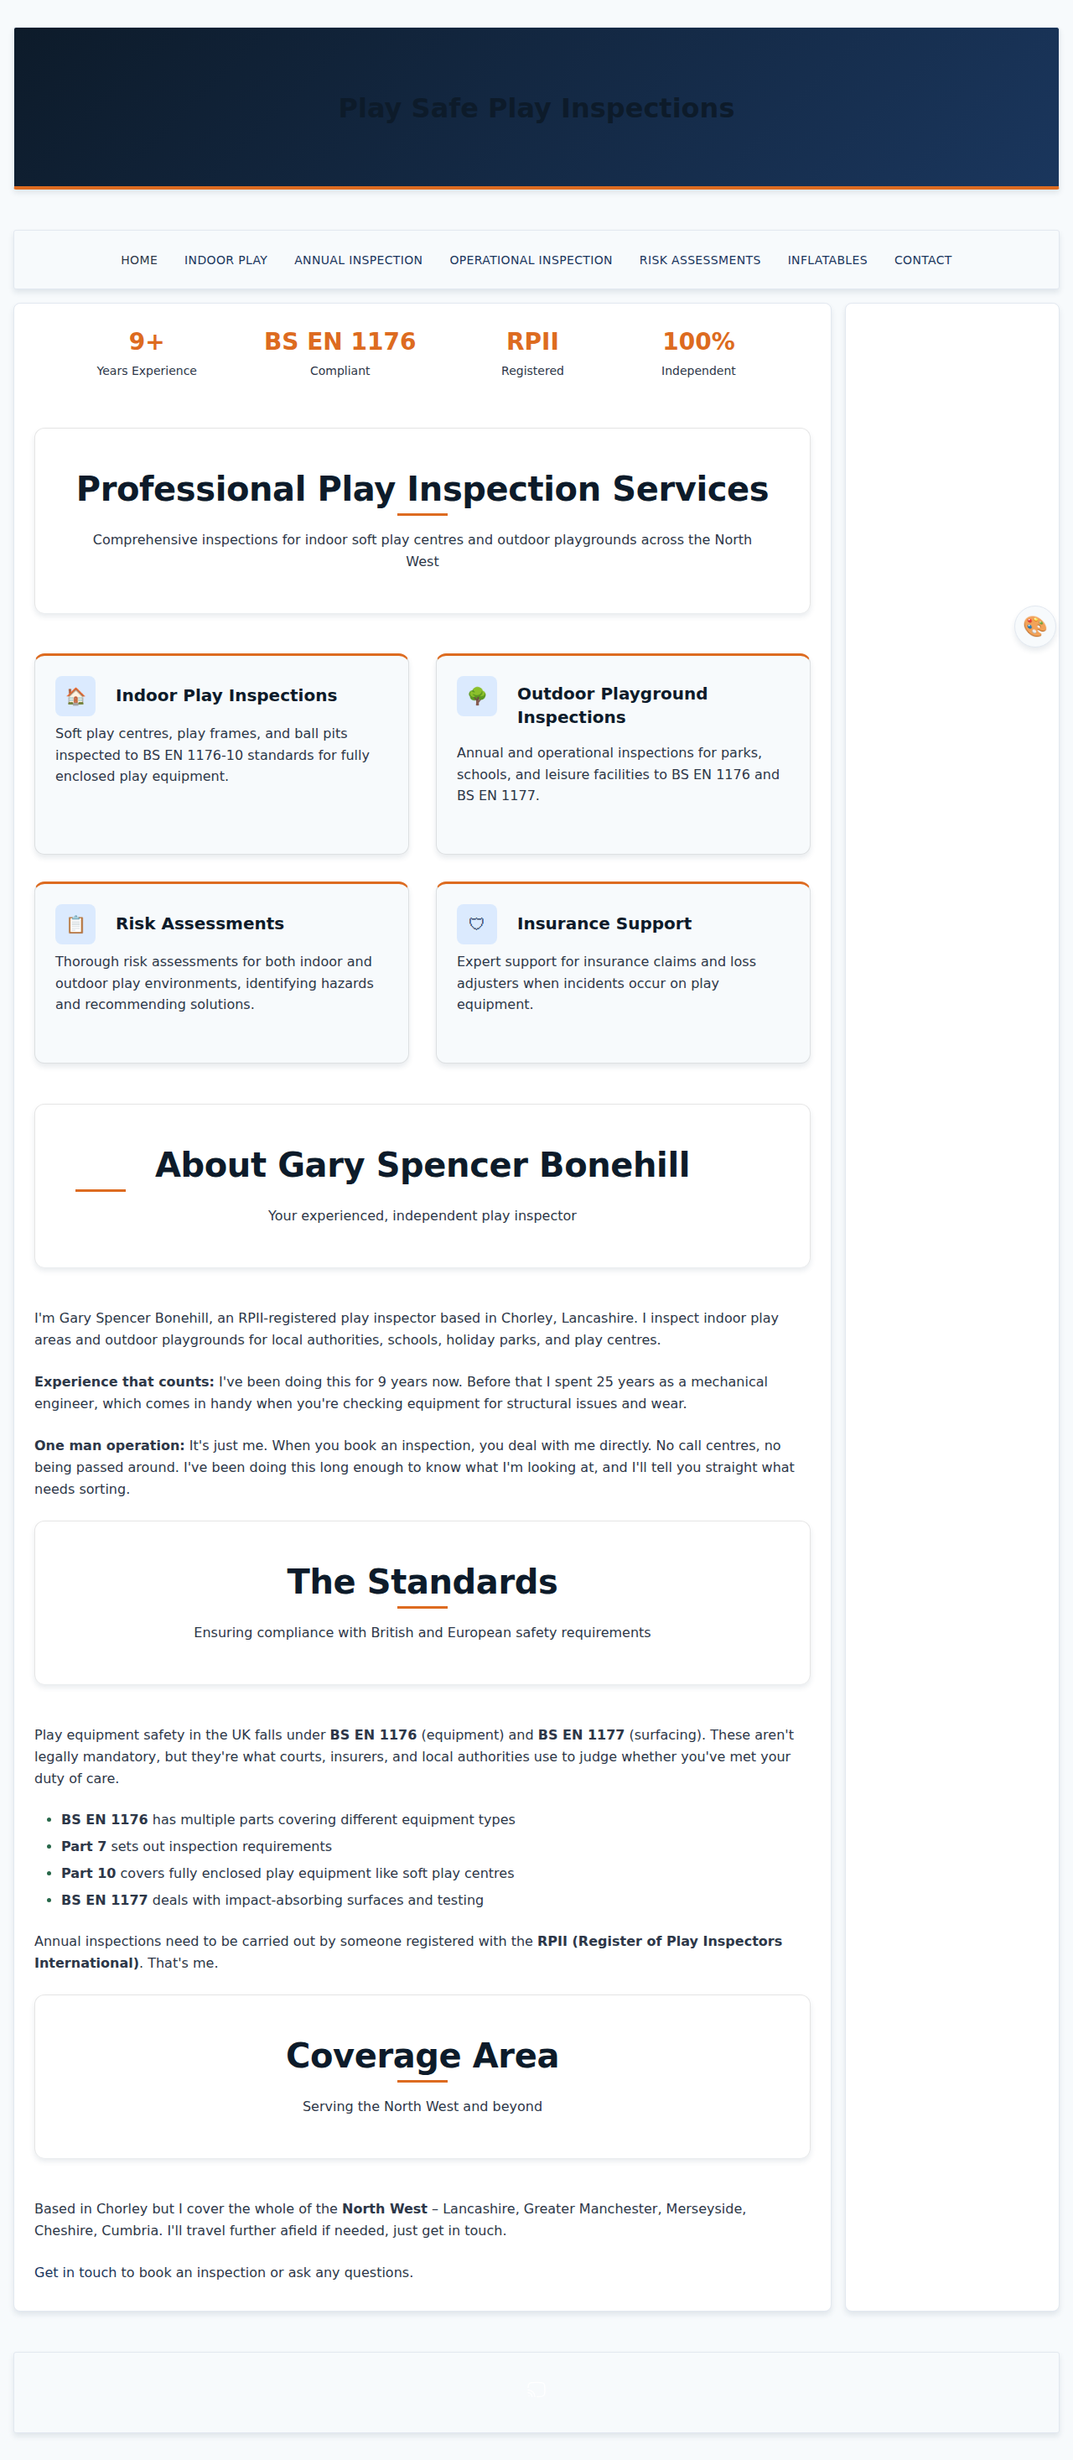
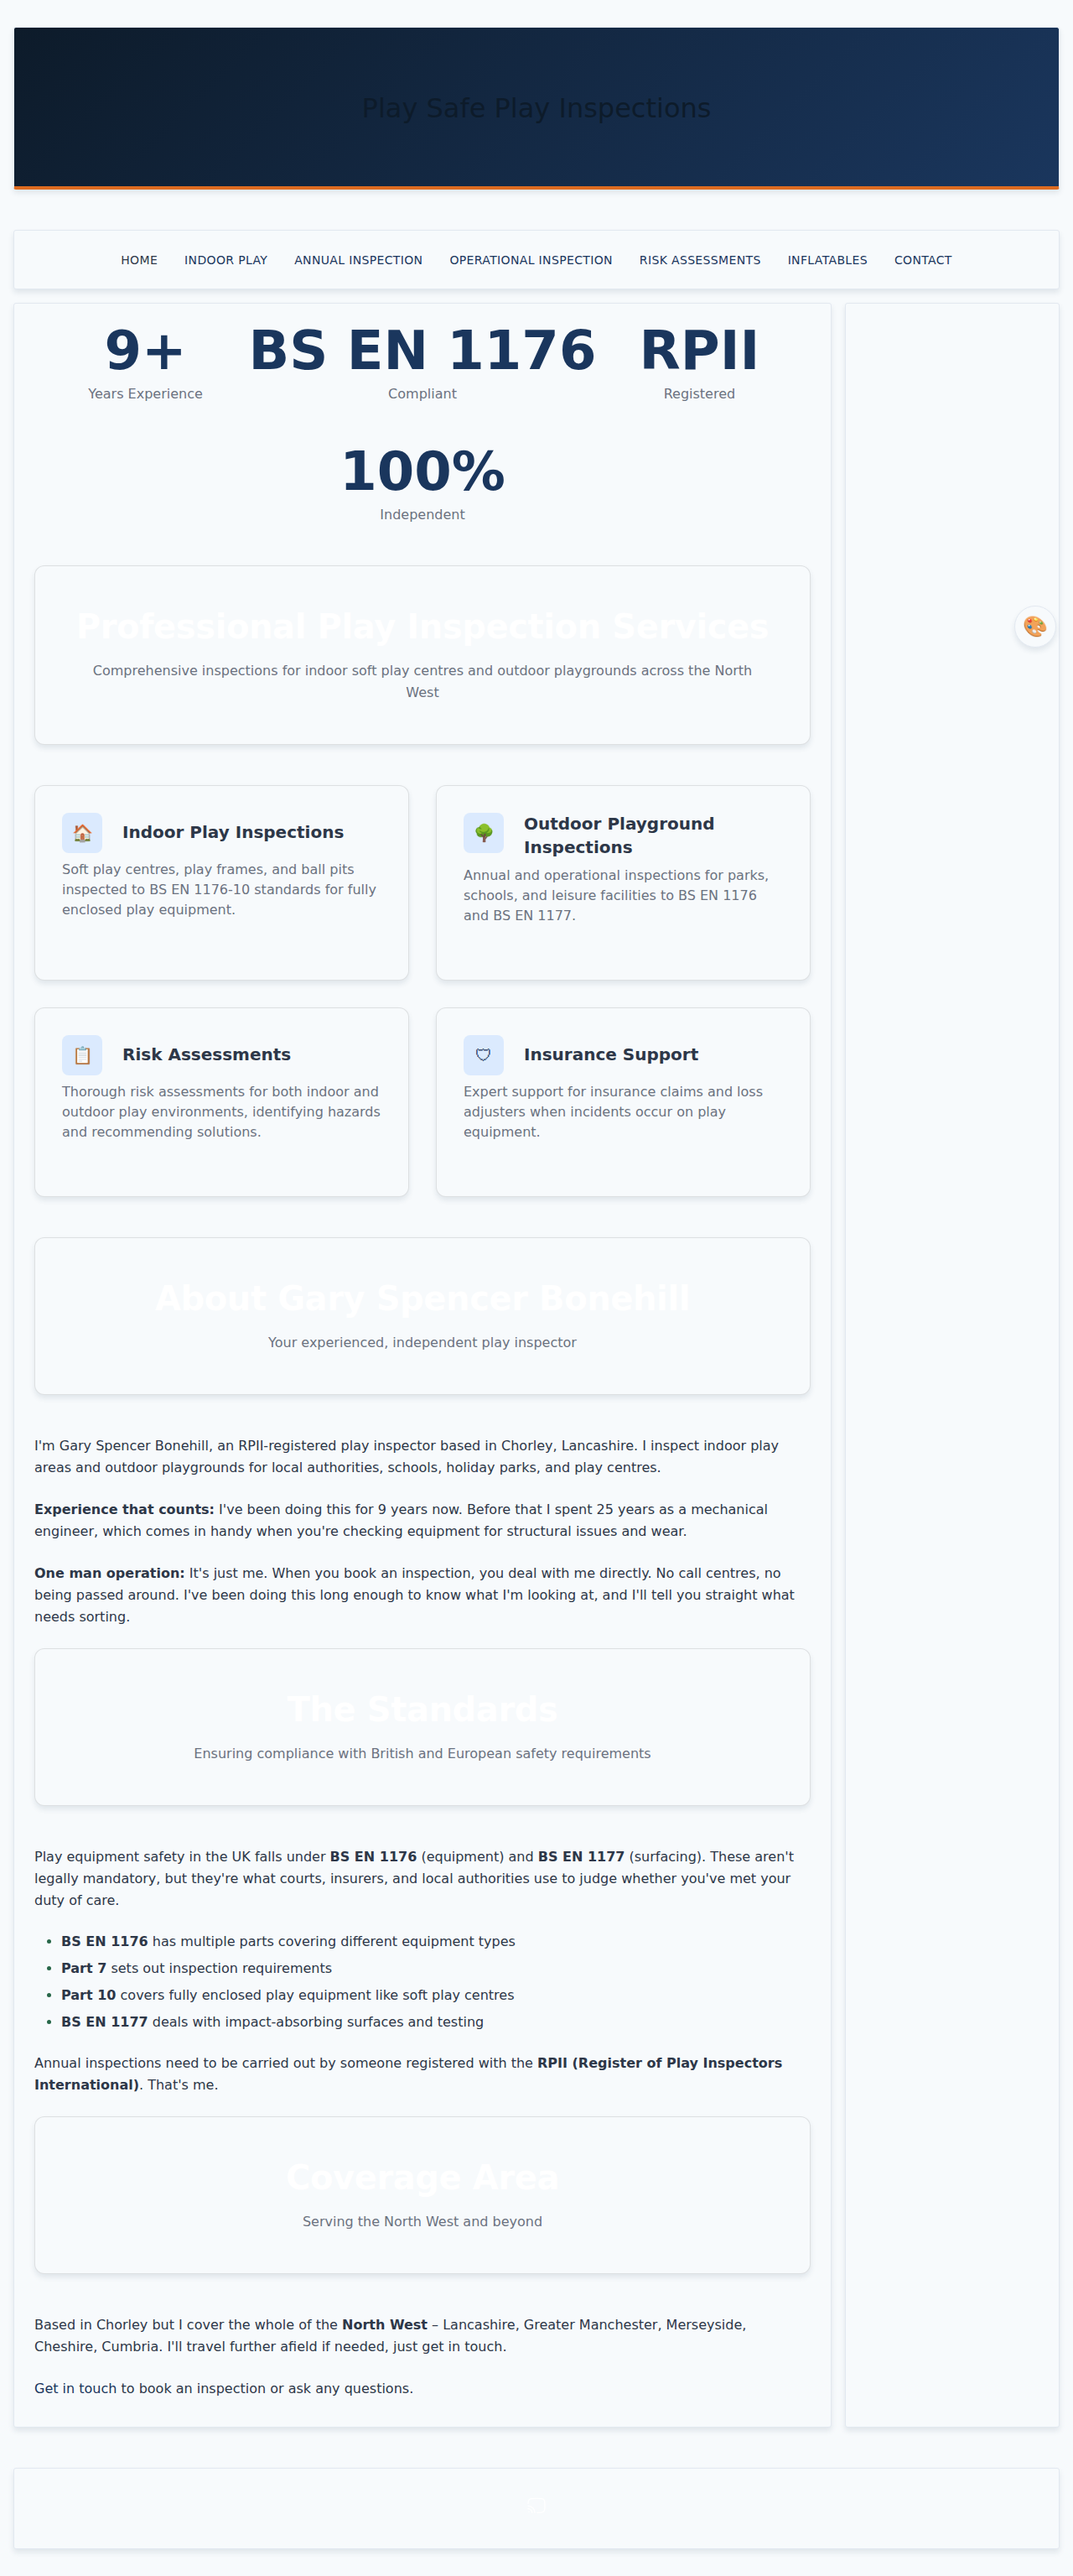
Minimize theme.scss after design system improvements
Remove design system overrides now built into chobble-template:
- Section header contrast fixes (now solid by default)
- Design system section spacing
- Stats component spacing
- Features grid spacing
- Alternating section backgrounds

theme.scss reduced from 396 to 162 lines - now purely branding/colors.

diff --git a/css/theme.scss b/css/theme.scss
@@ -1,5 +1,4 @@
 @charset "utf-8";
-@use "sass:color";
 
 // Corporate Safety Theme
 // Professional play inspection with safety-focused colors
@@ -36,31 +35,26 @@
 
   // UI Elements
   --border: 1px solid #e2e8f0;
-  --border-strong: 2px solid #1a365d;
-  --border-accent: 3px solid #dd6b20;
   --box-shadow: 0 4px 6px rgba(26, 54, 93, 0.1);
   --box-shadow-lg: 0 10px 25px rgba(26, 54, 93, 0.15);
 
-  // Typography - Clean, professional
+  // Typography
   --font-family-body: system-ui, -apple-system, "Segoe UI", Roboto, "Helvetica Neue", Arial, sans-serif;
   --font-family-heading: system-ui, -apple-system, "Segoe UI", Roboto, "Helvetica Neue", Arial, sans-serif;
 
   // Link styles
   --link-decoration: none;
   --link-decoration-hover: underline;
-  --link-decoration-style: solid;
 }
 
-// Base body
+// Base
 body {
   background: var(--color-bg);
   color: var(--color-text);
 }
 
-// Site header styling - dark navy with orange accent
-// Use body > header to only target the main site header, not section headers
-body > header,
-.site-header {
+// Site header - dark navy with orange accent
+header {
   --color-text: #ffffff;
   --color-link: #ffffff;
   --color-link-hover: var(--color-accent-light);
@@ -69,64 +63,28 @@ body > header,
 }
 
 // Navigation
-nav {
-  a {
-    font-weight: 500;
-    letter-spacing: 0.025em;
-    text-transform: uppercase;
-    font-size: 0.875rem;
-  }
+nav a {
+  font-weight: 500;
+  letter-spacing: 0.025em;
+  text-transform: uppercase;
+  font-size: 0.875rem;
 }
 
-// Hero section enhancements
-.hero,
-[class*="hero"] {
-  background: linear-gradient(135deg, var(--color-primary-dark) 0%, var(--color-primary) 100%);
-  color: #ffffff;
-  position: relative;
-
-  &::after {
-    content: "";
-    position: absolute;
-    bottom: 0;
-    left: 0;
-    right: 0;
-    height: 4px;
-    background: var(--color-accent);
-  }
-
-  h1 {
-    color: #ffffff;
-    font-weight: 700;
-  }
-
-  .subtitle,
-  p {
-    color: rgba(255, 255, 255, 0.9);
-  }
-}
-
-// Primary buttons - Safety orange
+// Buttons - Safety orange
 .btn,
 button[type="submit"],
 input[type="submit"] {
   background: var(--color-accent);
   color: #ffffff;
-  border: none;
   font-weight: 600;
   text-transform: uppercase;
   letter-spacing: 0.05em;
-  padding: 0.75rem 1.5rem;
-  transition: all 0.2s ease;
 
   &:hover {
     background: var(--color-accent-dark);
-    transform: translateY(-2px);
-    box-shadow: var(--box-shadow);
   }
 }
 
-// Secondary buttons - Navy outline
 .btn-secondary,
 .btn-outline {
   background: transparent;
@@ -139,78 +97,43 @@ input[type="submit"] {
   }
 }
 
-// Cards and content blocks
-.card,
-article,
+// Cards - add accent border
 .feature {
-  background: #ffffff;
-  border: var(--border);
-  border-radius: 0.5rem;
-  box-shadow: var(--box-shadow);
-  transition: all 0.2s ease;
-
-  &:hover {
-    box-shadow: var(--box-shadow-lg);
-    border-color: var(--color-primary-light);
-  }
+  border-top: 3px solid var(--color-accent);
 }
 
-// Headings - Navy blue
+// Headings - Navy with orange underline
 h1, h2, h3, h4, h5, h6 {
   color: var(--color-primary-dark);
-  font-weight: 700;
 }
 
-h2 {
-  position: relative;
-  padding-bottom: 0.5rem;
-
-  &::after {
-    content: "";
-    position: absolute;
-    bottom: 0;
-    left: 0;
-    width: 60px;
-    height: 3px;
-    background: var(--color-accent);
-  }
+h2::after {
+  background: var(--color-accent);
 }
 
-// Centered headings
-.text-center h2::after {
-  left: 50%;
-  transform: translateX(-50%);
-}
-
-// Stats highlighting - use orange for emphasis
+// Stats - orange values
 .stat strong,
 .stats strong {
-  color: var(--color-accent) !important;
+  color: var(--color-accent);
 }
 
-// Feature icons
-.feature .icon,
+// Icons - orange
 .icon {
   color: var(--color-accent);
-  font-size: 2.5rem;
 }
 
-// Lists with checkmarks/safety indicators
-ul:not([class]) li::marker,
-.checklist li::marker {
+// List markers - green (safety approved)
+ul:not([class]) li::marker {
   color: var(--color-secondary);
 }
 
-// Blockquotes - Safety styling
+// Blockquotes
 blockquote {
-  border-left: 4px solid var(--color-accent);
+  border-left-color: var(--color-accent);
   background: var(--color-bg-alt);
-  padding: 1rem 1.5rem;
-  font-style: italic;
-  color: var(--color-text-light);
 }
 
-// Footer - Dark professional
+// Footer - dark navy
 footer {
   background: var(--color-primary-dark);
   color: rgba(255, 255, 255, 0.8);
@@ -218,178 +141,21 @@ footer {
 
   a {
     color: rgba(255, 255, 255, 0.9);
-
-    &:hover {
-      color: var(--color-accent-light);
-    }
+    &:hover { color: var(--color-accent-light); }
   }
 
-  h3, h4 {
-    color: #ffffff;
-  }
+  h3, h4 { color: #ffffff; }
 }
 
-// Safety badge/certification styling
-.badge,
-.certification,
-.standard {
-  display: inline-flex;
-  align-items: center;
-  gap: 0.5rem;
-  background: var(--color-bg-alt);
-  border: 1px solid var(--color-secondary);
-  border-radius: 0.25rem;
-  padding: 0.25rem 0.75rem;
-  font-size: 0.875rem;
-  font-weight: 500;
-  color: var(--color-secondary);
-}
-
-// Horizontal rules - Orange accent
+// Horizontal rules
 hr {
-  border: none;
-  height: 2px;
   background: linear-gradient(90deg, var(--color-accent) 0%, transparent 100%);
-  margin: 2rem 0;
 }
 
-// Form inputs
-input[type="text"],
-input[type="email"],
-input[type="tel"],
-textarea,
-select {
-  border: var(--border);
-  border-radius: 0.375rem;
-  padding: 0.75rem 1rem;
-  transition: border-color 0.2s ease, box-shadow 0.2s ease;
-
-  &:focus {
-    outline: none;
-    border-color: var(--color-primary);
-    box-shadow: 0 0 0 3px rgba(26, 54, 93, 0.1);
-  }
-}
-
-// Design system overrides
-.design-system {
-  // Section spacing - more breathing room
-  padding: 3rem 1.5rem;
-  margin-bottom: 0.5rem;
-
-  // Section headers - fix contrast issues
-  > header {
-    background: transparent !important;
-    border-bottom: none !important;
-    margin-bottom: 2rem;
-
-    h2 {
-      color: var(--color-primary-dark) !important;
-      background: none !important;
-      -webkit-background-clip: unset !important;
-      -webkit-text-fill-color: var(--color-primary-dark) !important;
-      background-clip: unset !important;
-    }
-
-    p,
-    .text-muted {
-      color: var(--color-text) !important;
-      opacity: 1 !important;
-    }
-  }
-
-  // Features grid enhancement
-  .features {
-    gap: 1.5rem;
-    margin-top: 1.5rem;
-
-    .feature {
-      border-top: 3px solid var(--color-accent);
-      padding: 1.5rem;
-
-      h3 {
-        color: var(--color-primary-dark);
-        margin-top: 0.5rem;
-        margin-bottom: 0.5rem;
-      }
-
-      p {
-        color: var(--color-text);
-        line-height: 1.6;
-        margin: 0;
-      }
-    }
-  }
-
-  // Stats enhancement - more spacing
-  .stats {
-    gap: 2.5rem;
-    padding: 1.5rem 0;
-    margin-bottom: 1rem;
-
-    .stat {
-      padding: 0.5rem 1rem;
-
-      strong {
-        color: var(--color-accent);
-        font-size: 1.75rem;
-      }
-
-      span {
-        color: var(--color-text);
-        font-size: 0.875rem;
-      }
-    }
-  }
-}
-
-// Alternating section backgrounds
-.design-system:nth-child(odd) {
-  background: #ffffff;
-}
-
-.design-system:nth-child(even) {
-  background: var(--color-bg-alt);
-}
-
-// Utility classes for safety colors
-.text-safety {
-  color: var(--color-accent);
-}
-
-.text-compliant {
-  color: var(--color-secondary);
-}
-
-.bg-safety {
-  background: var(--color-accent);
-  color: #ffffff;
-}
-
-.bg-compliant {
-  background: var(--color-secondary);
-  color: #ffffff;
-}
-
-// Standards/certifications callout
-.standards-callout {
-  background: linear-gradient(135deg, var(--color-bg-alt) 0%, #ffffff 100%);
-  border: 2px solid var(--color-primary);
-  border-radius: 0.5rem;
-  padding: 1.5rem;
-  margin: 2rem 0;
-
-  &::before {
-    content: "BS EN 1176/1177";
-    display: inline-block;
-    background: var(--color-primary);
-    color: #ffffff;
-    padding: 0.25rem 0.75rem;
-    border-radius: 0.25rem;
-    font-size: 0.75rem;
-    font-weight: 700;
-    text-transform: uppercase;
-    letter-spacing: 0.05em;
-    margin-bottom: 0.75rem;
-  }
+// Form focus states
+input:focus,
+textarea:focus,
+select:focus {
+  border-color: var(--color-primary);
+  box-shadow: 0 0 0 3px rgba(26, 54, 93, 0.1);
 }
